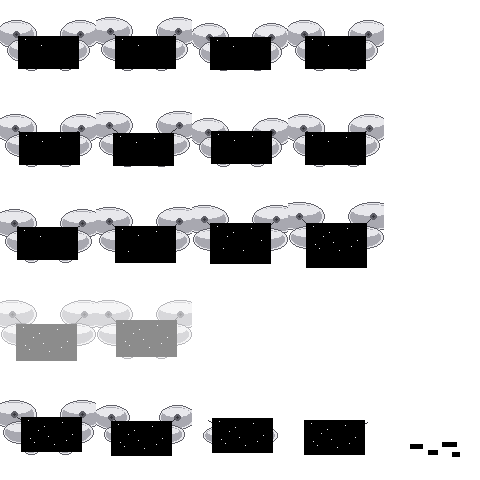
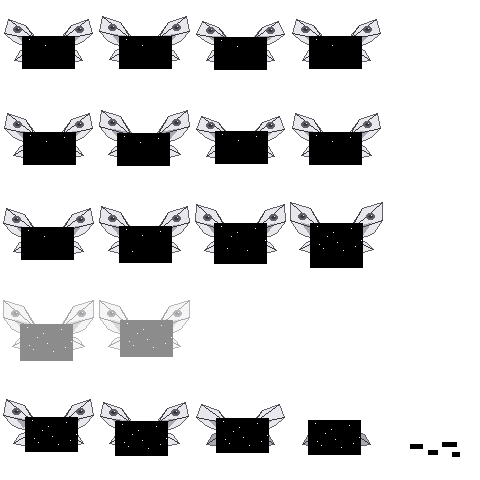
Redraw ?????: real moth wings, no clipping, red-glow bullets
The old wings were stacked ellipses that read as discs, and at full
extension they drew past the 96px frame edge. The new ones are moth
anatomy: a pointed raked forewing riding high above the censor bar,
eyespot, veins fanning from the shoulder, scalloped trailing edge, and
a swept hindwing flaring past the bar's flanks. The bar slims so the
wings own the silhouette. Every frame verified border-clean.

Its bullets grow to 12px and glow red — the one warm colour on the
fifth floor — so the walls and spirals read as threads of light
instead of black squares on a dark grid. Previous versions archived
as *_old alongside.

diff --git a/tools/build_bosses.py b/tools/build_bosses.py
@@ -463,31 +463,56 @@ STATIC_PX = (240, 240, 244)
 
 
 def _wing(d, ax, ay, side, flap, tatter=0.0):
-    """One moth wing anchored at (ax, ay). `flap` raises and spreads it;
-    `tatter` eats it away for the death row."""
-    spread = 26 + int(flap * 12)
-    lift = int(flap * 14)
-    lobes = [
-        (ax + side * (10 + spread // 2), ay - 10 - lift, spread // 2 + 6, 14),
-        (ax + side * (8 + spread // 3), ay + 4 - lift // 2, spread // 3 + 7, 11),
-        (ax + side * 9, ay + 14, 9, 8),
+    """One moth wing anchored at (ax, ay), drawn as two pointed, scalloped
+    lobes rather than discs — the tip sweep is what makes it read as a wing.
+    `flap` raises and spreads it; `tatter` eats it away for the death row.
+    Every point stays within +/-40 of the anchor, so nothing clips the frame
+    even at full extension."""
+    s = side
+    f = flap
+    lift = int(f * 12)
+
+    # forewing: shoulder -> raked leading edge -> pointed tip, riding HIGH so
+    # the whole upper wing shows above the bar; scalloped trailing edge falls
+    # back toward the body behind it
+    tip = (ax + s * int(28 + 8 * f), ay - 20 - lift)
+    fore = [
+        (ax + s * 2, ay - 4),
+        (ax + s * int(12 + 4 * f), ay - 14 - lift),
+        tip,
+        (ax + s * int(34 + 2 * f), ay - 8 - lift // 2),
+        (ax + s * int(26 + 2 * f), ay - 2),   # scallop notch
+        (ax + s * int(18 + 2 * f), ay + 2),
+        (ax + s * 10, ay + 4),
+        (ax + s * 2, ay + 2),
     ]
-    for i, (cx, cy, rx, ry) in enumerate(lobes):
-        if tatter > 0.0 and i < int(tatter * 3):
-            continue
-        rx = max(3, int(rx * (1.0 - tatter * 0.5)))
-        ry = max(2, int(ry * (1.0 - tatter * 0.5)))
-        d.ellipse([cx - rx, cy - ry, cx + rx, cy + ry], fill=WING, outline=WING_DK)
-        d.ellipse([cx - rx + 2, cy - ry + 2, cx + rx - 3, cy + ry - 2], fill=WING_SH)
-        d.ellipse([cx - rx + 4, cy - ry + 3, cx + rx - 6, cy - 1], fill=WING)
-    # veins, from the anchor out through each lobe
-    for cx, cy, rx, ry in lobes[:2]:
-        d.line([ax + side * 6, ay, cx, cy], fill=VEIN, width=1)
-    # one dark eyespot on the big lobe — moths have them; this one watches
-    bx, by_, rx, ry = lobes[0]
-    if tatter < 0.4:
-        d.ellipse([bx - 3, by_ - 3, bx + 3, by_ + 3], fill=WING_DK)
-        d.ellipse([bx - 1, by_ - 1, bx + 1, by_ + 1], fill=VEIN)
+    # hindwing: smaller, swept down and out past the bar's flank
+    hind = [
+        (ax + s * 2, ay + 2),
+        (ax + s * int(18 + 2 * f), ay + 8),
+        (ax + s * int(24 + 3 * f), ay + 18 - int(f * 3)),  # lower tip
+        (ax + s * 10, ay + 20),
+        (ax + s * 3, ay + 12),
+    ]
+    if tatter < 0.66:
+        d.polygon(fore, fill=WING, outline=WING_DK)
+        # inner shading wedge, hugging the trailing edge
+        d.polygon([(ax + s * 4, ay - 6), (ax + s * int(22 + 3 * f), ay - 6 - lift // 2),
+                   (ax + s * int(14 + 2 * f), ay + 1), (ax + s * 4, ay)],
+                  fill=WING_SH)
+        # veins fan from the shoulder to the edge points
+        for px, py in (fore[1], tip, fore[3]):
+            d.line([ax + s * 3, ay - 3, px, py], fill=VEIN, width=1)
+        # the eyespot rides the forewing — moths have them; this one watches
+        if tatter < 0.33:
+            ex = ax + s * int(20 + 4 * f)
+            ey = ay - 12 - lift // 2
+            d.ellipse([ex - 4, ey - 3, ex + 4, ey + 3], fill=WING_DK)
+            d.ellipse([ex - 2, ey - 1, ex + 2, ey + 1], fill=VEIN)
+            d.point((ex + 1, ey - 1), fill=WING)
+    if tatter < 0.9:
+        d.polygon(hind, fill=WING_SH if tatter > 0.33 else WING, outline=WING_DK)
+        d.line([ax + s * 3, ay + 4, hind[2][0], hind[2][1]], fill=VEIN, width=1)
 
 
 def unknown(d, flap, jit_x, jit_y, bar_h, static_n, tatter=0.0, bar_gone=0.0):
@@ -500,11 +525,12 @@ def unknown(d, flap, jit_x, jit_y, bar_h, static_n, tatter=0.0, bar_gone=0.0):
             d.rectangle([cx + dx, cy + dy, cx + dx + w, cy + dy + 4], fill=BAR)
         return
 
-    _wing(d, cx - 8, cy - 4, -1, flap, tatter)
-    _wing(d, cx + 8, cy - 4, 1, flap, tatter)
+    _wing(d, cx - 10, cy - 10, -1, flap, tatter)
+    _wing(d, cx + 10, cy - 10, 1, flap, tatter)
 
-    # the bar. Pure black, wider than whatever is under it could possibly be.
-    bw = 30
+    # the bar. Pure black, wider than whatever is under it could possibly be —
+    # but not wider than the wings, which own the silhouette now.
+    bw = 26
     bh = 16 + int(bar_h * 6)
     bx = cx + jit_x
     by_ = cy + jit_y
@@ -571,23 +597,33 @@ def fx_dumbbell():
     return img
 
 
+GLOW_R = (255, 70, 58)
+GLOW_R_DIM = (200, 40, 40)
+
+
 def fx_static():
-    """A shard of censorship: black square, white noise."""
-    img = Image.new("RGBA", (10, 10), (0, 0, 0, 0))
+    """A shard of censorship: black core, white noise, and a red glow — the
+    one warm colour in the fifth floor's palette, so the bullet reads against
+    the colourless grid and everywhere else."""
+    img = Image.new("RGBA", (12, 12), (0, 0, 0, 0))
     d = ImageDraw.Draw(img)
-    d.rectangle([1, 1, 8, 8], fill=BAR, outline=(50, 50, 54))
-    for x, y in ((2, 3), (5, 2), (7, 5), (3, 6), (6, 7), (4, 4)):
-        d.point((x, y), fill=STATIC_PX if (x + y) % 2 else WING_SH)
+    d.ellipse([0, 0, 11, 11], fill=(*GLOW_R_DIM, 70))
+    d.ellipse([1, 1, 10, 10], fill=(*GLOW_R, 120))
+    d.rectangle([2, 2, 9, 9], fill=BAR, outline=(*GLOW_R, 255))
+    for x, y in ((3, 4), (6, 3), (8, 6), (4, 7), (7, 8), (5, 5)):
+        d.point((x, y), fill=STATIC_PX if (x + y) % 2 else GLOW_R)
     return img
 
 
 def fx_feather():
-    """A wing shard, thrown."""
-    img = Image.new("RGBA", (10, 10), (0, 0, 0, 0))
+    """A wing shard, thrown — white blade in a red halo."""
+    img = Image.new("RGBA", (12, 12), (0, 0, 0, 0))
     d = ImageDraw.Draw(img)
-    d.polygon([(1, 8), (3, 3), (7, 1), (8, 2), (5, 6), (2, 9)], fill=WING,
-              outline=WING_DK)
-    d.line([2, 8, 7, 2], fill=WING_SH)
+    d.ellipse([0, 0, 11, 11], fill=(*GLOW_R_DIM, 60))
+    d.ellipse([2, 2, 9, 9], fill=(*GLOW_R, 100))
+    d.polygon([(2, 9), (4, 4), (8, 2), (9, 3), (6, 7), (3, 10)], fill=WING,
+              outline=(*GLOW_R, 255))
+    d.line([3, 9, 8, 3], fill=WING_SH)
     return img
 
 
